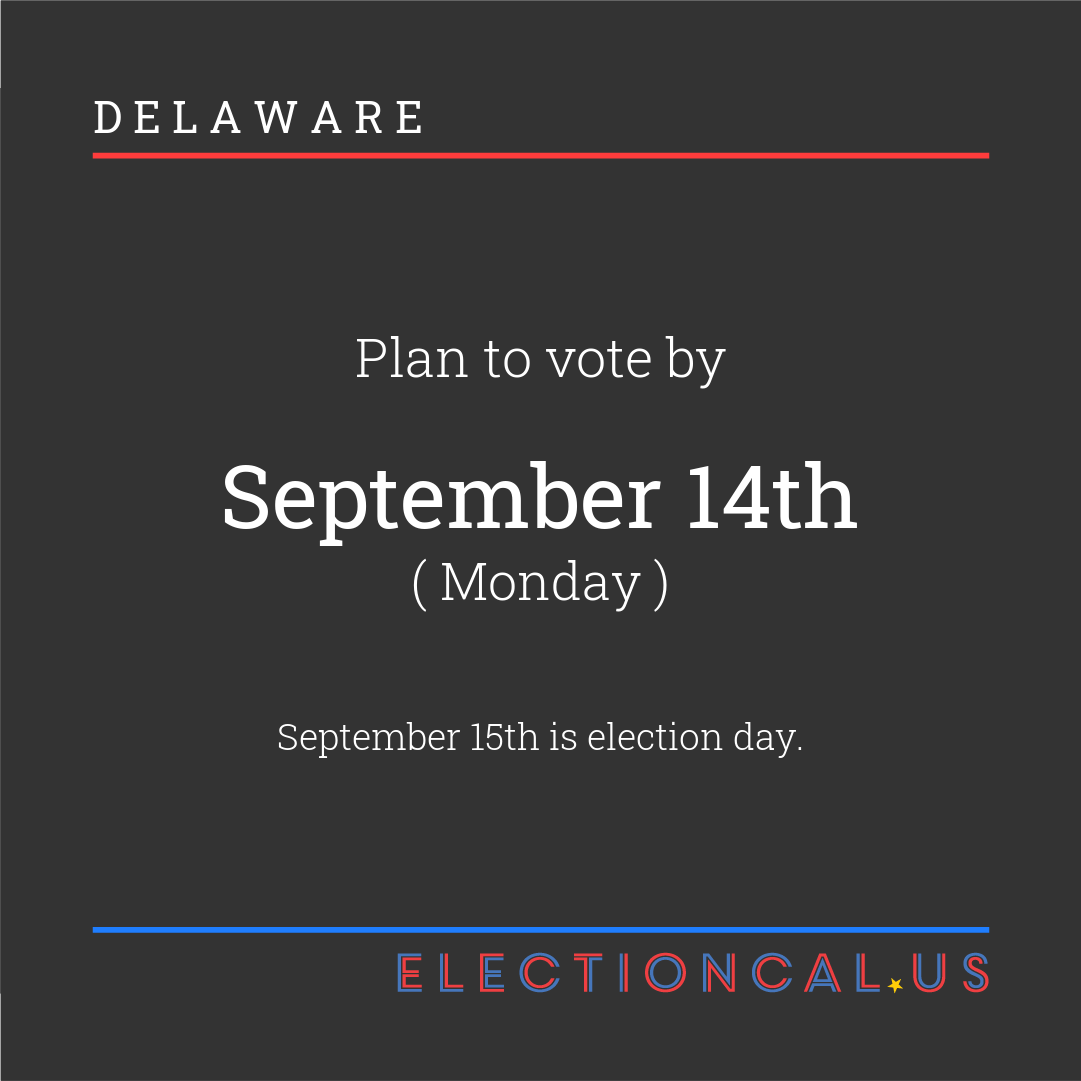
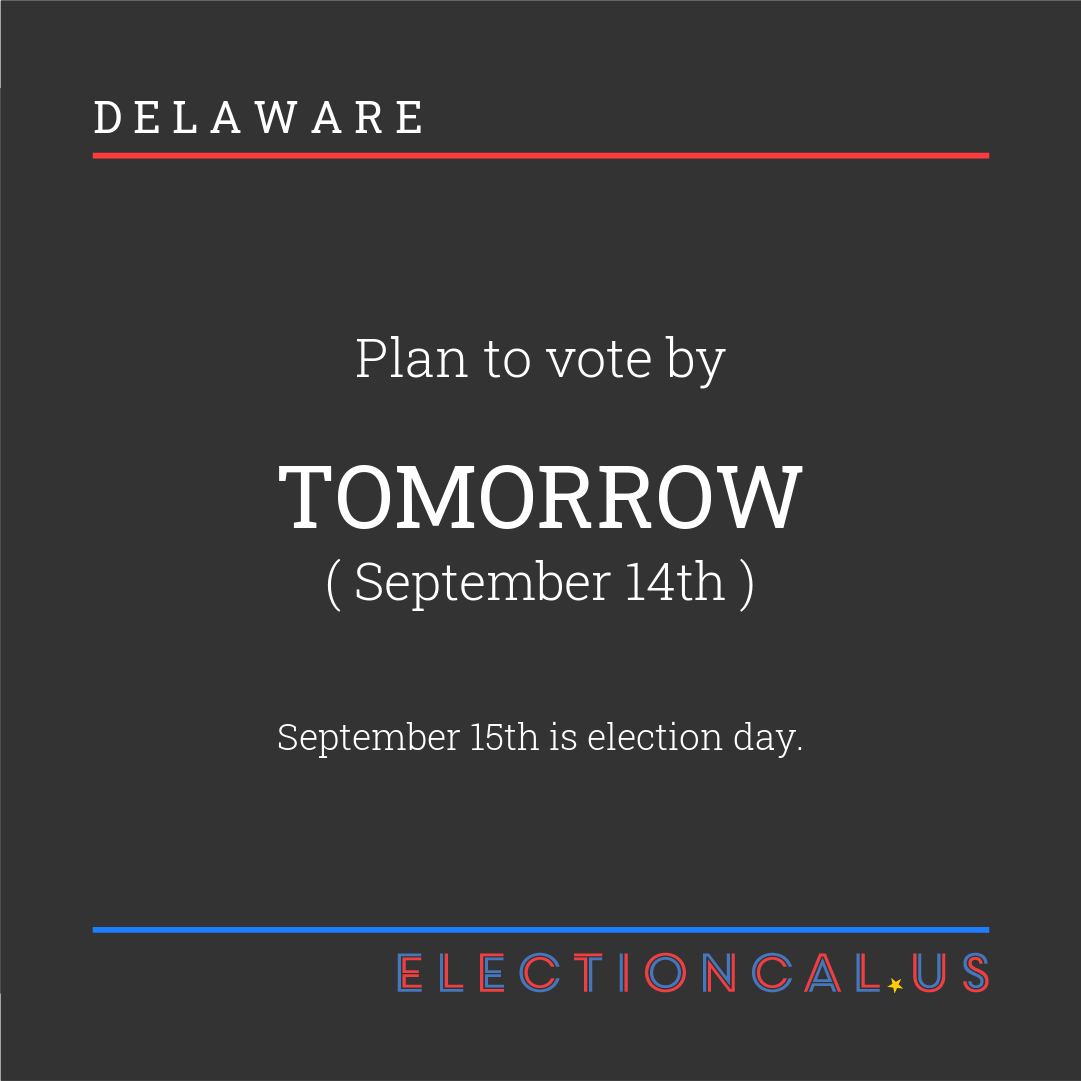
deploy: e3d045e0d992fcbe17e1e23dd607887b0fa743d8

Changed region(s): [[0.2137, 0.4274, 0.7937, 0.58]]

diff --git a/en/delaware/new_castle/index.html b/en/delaware/new_castle/index.html
@@ -14,7 +14,7 @@
     <meta property="og:title" content="New Castle County, Delaware|Plan to vote by" />
     <meta property="og:url" content="https://electioncal.us/en/delaware/new_castle/" />
     <meta property="og:type" content="website" />
-    <meta property="og:description" content="New Castle County, Delaware Plan to vote by September 14th (Monday). September 15th is election day." />
+    <meta property="og:description" content="New Castle County, Delaware Plan to vote by Tomorrow (September 14th). September 15th is election day." />
     <meta property="og:image" content="https://electioncal.us/en/delaware/new_castle/twitter_card.png" />
     
     
@@ -22,9 +22,9 @@
     <meta name="twitter:site" content="@electioncal_us">
     <meta name="twitter:creator" content="@tannewt">
     <meta name="twitter:title" content="New Castle County, Delaware | Plan to vote by">
-    <meta name="twitter:description" content="September 14th (Monday). September 15th is election day.">
+    <meta name="twitter:description" content="Tomorrow (September 14th). September 15th is election day.">
     <meta name="twitter:image" content="https://electioncal.us/en/delaware/new_castle/twitter_card.png?e3d045e0d992fcbe17e1e23dd607887b0fa743d8">
-    <meta name="twitter:image:alt" content="New Castle County, Delaware Plan to vote by September 14th (Monday). September 15th is election day.">
+    <meta name="twitter:image:alt" content="New Castle County, Delaware Plan to vote by Tomorrow (September 14th). September 15th is election day.">
     
 </head>
 <body>
@@ -35,8 +35,8 @@
     <div id="reminder">
         <h3>New Castle County, Delaware</h3>
         <h2>Plan to vote by</h2>
-        <h1>September 14th</h1>
-        <h2>(Monday)</h2>
+        <h1>Tomorrow</h1>
+        <h2>(September 14th)</h2>
         <h3>September 15th is election day.</h3>
     </div>
     

diff --git a/en/delaware/sussex/index.html b/en/delaware/sussex/index.html
@@ -14,7 +14,7 @@
     <meta property="og:title" content="Sussex County, Delaware|Plan to vote by" />
     <meta property="og:url" content="https://electioncal.us/en/delaware/sussex/" />
     <meta property="og:type" content="website" />
-    <meta property="og:description" content="Sussex County, Delaware Plan to vote by September 14th (Monday). September 15th is election day." />
+    <meta property="og:description" content="Sussex County, Delaware Plan to vote by Tomorrow (September 14th). September 15th is election day." />
     <meta property="og:image" content="https://electioncal.us/en/delaware/sussex/twitter_card.png" />
     
     
@@ -22,9 +22,9 @@
     <meta name="twitter:site" content="@electioncal_us">
     <meta name="twitter:creator" content="@tannewt">
     <meta name="twitter:title" content="Sussex County, Delaware | Plan to vote by">
-    <meta name="twitter:description" content="September 14th (Monday). September 15th is election day.">
+    <meta name="twitter:description" content="Tomorrow (September 14th). September 15th is election day.">
     <meta name="twitter:image" content="https://electioncal.us/en/delaware/sussex/twitter_card.png?e3d045e0d992fcbe17e1e23dd607887b0fa743d8">
-    <meta name="twitter:image:alt" content="Sussex County, Delaware Plan to vote by September 14th (Monday). September 15th is election day.">
+    <meta name="twitter:image:alt" content="Sussex County, Delaware Plan to vote by Tomorrow (September 14th). September 15th is election day.">
     
 </head>
 <body>
@@ -35,8 +35,8 @@
     <div id="reminder">
         <h3>Sussex County, Delaware</h3>
         <h2>Plan to vote by</h2>
-        <h1>September 14th</h1>
-        <h2>(Monday)</h2>
+        <h1>Tomorrow</h1>
+        <h2>(September 14th)</h2>
         <h3>September 15th is election day.</h3>
     </div>
     

diff --git a/en/delaware/kent/index.html b/en/delaware/kent/index.html
@@ -14,7 +14,7 @@
     <meta property="og:title" content="Kent County, Delaware|Plan to vote by" />
     <meta property="og:url" content="https://electioncal.us/en/delaware/kent/" />
     <meta property="og:type" content="website" />
-    <meta property="og:description" content="Kent County, Delaware Plan to vote by September 14th (Monday). September 15th is election day." />
+    <meta property="og:description" content="Kent County, Delaware Plan to vote by Tomorrow (September 14th). September 15th is election day." />
     <meta property="og:image" content="https://electioncal.us/en/delaware/kent/twitter_card.png" />
     
     
@@ -22,9 +22,9 @@
     <meta name="twitter:site" content="@electioncal_us">
     <meta name="twitter:creator" content="@tannewt">
     <meta name="twitter:title" content="Kent County, Delaware | Plan to vote by">
-    <meta name="twitter:description" content="September 14th (Monday). September 15th is election day.">
+    <meta name="twitter:description" content="Tomorrow (September 14th). September 15th is election day.">
     <meta name="twitter:image" content="https://electioncal.us/en/delaware/kent/twitter_card.png?e3d045e0d992fcbe17e1e23dd607887b0fa743d8">
-    <meta name="twitter:image:alt" content="Kent County, Delaware Plan to vote by September 14th (Monday). September 15th is election day.">
+    <meta name="twitter:image:alt" content="Kent County, Delaware Plan to vote by Tomorrow (September 14th). September 15th is election day.">
     
 </head>
 <body>
@@ -35,8 +35,8 @@
     <div id="reminder">
         <h3>Kent County, Delaware</h3>
         <h2>Plan to vote by</h2>
-        <h1>September 14th</h1>
-        <h2>(Monday)</h2>
+        <h1>Tomorrow</h1>
+        <h2>(September 14th)</h2>
         <h3>September 15th is election day.</h3>
     </div>
     

diff --git a/en/delaware/index.html b/en/delaware/index.html
@@ -14,7 +14,7 @@
     <meta property="og:title" content="Delaware|Plan to vote by" />
     <meta property="og:url" content="https://electioncal.us/en/delaware/" />
     <meta property="og:type" content="website" />
-    <meta property="og:description" content="Delaware Plan to vote by September 14th (Monday). September 15th is election day." />
+    <meta property="og:description" content="Delaware Plan to vote by Tomorrow (September 14th). September 15th is election day." />
     <meta property="og:image" content="https://electioncal.us/en/delaware/twitter_card.png" />
     
     
@@ -22,9 +22,9 @@
     <meta name="twitter:site" content="@electioncal_us">
     <meta name="twitter:creator" content="@tannewt">
     <meta name="twitter:title" content="Delaware | Plan to vote by">
-    <meta name="twitter:description" content="September 14th (Monday). September 15th is election day.">
+    <meta name="twitter:description" content="Tomorrow (September 14th). September 15th is election day.">
     <meta name="twitter:image" content="https://electioncal.us/en/delaware/twitter_card.png?e3d045e0d992fcbe17e1e23dd607887b0fa743d8">
-    <meta name="twitter:image:alt" content="Delaware Plan to vote by September 14th (Monday). September 15th is election day.">
+    <meta name="twitter:image:alt" content="Delaware Plan to vote by Tomorrow (September 14th). September 15th is election day.">
     
 </head>
 <body>
@@ -35,8 +35,8 @@
     <div id="reminder">
         <h3>Delaware</h3>
         <h2>Plan to vote by</h2>
-        <h1>September 14th</h1>
-        <h2>(Monday)</h2>
+        <h1>Tomorrow</h1>
+        <h2>(September 14th)</h2>
         <h3>September 15th is election day.</h3>
     </div>
     

diff --git a/en/index.html b/en/index.html
@@ -20,7 +20,7 @@
     <meta property="og:title" content="Delaware|Plan to vote by" />
     <meta property="og:url" content="https://electioncal.us/en/" />
     <meta property="og:type" content="website" />
-    <meta property="og:description" content="Delaware Plan to vote by September 14th (Monday). September 15th is election day." />
+    <meta property="og:description" content="Delaware Plan to vote by Tomorrow (September 14th). September 15th is election day." />
     <meta property="og:image" content="https://electioncal.us/en/twitter_card.png" />
     
     
@@ -28,9 +28,9 @@
     <meta name="twitter:site" content="@electioncal_us">
     <meta name="twitter:creator" content="@tannewt">
     <meta name="twitter:title" content="Delaware | Plan to vote by">
-    <meta name="twitter:description" content="September 14th (Monday). September 15th is election day.">
+    <meta name="twitter:description" content="Tomorrow (September 14th). September 15th is election day.">
     <meta name="twitter:image" content="https://electioncal.us/en/twitter_card.png?e3d045e0d992fcbe17e1e23dd607887b0fa743d8">
-    <meta name="twitter:image:alt" content="Delaware Plan to vote by September 14th (Monday). September 15th is election day.">
+    <meta name="twitter:image:alt" content="Delaware Plan to vote by Tomorrow (September 14th). September 15th is election day.">
     
 </head>
 <body>
@@ -41,8 +41,8 @@
     <div id="reminder">
         <h3>Delaware</h3>
         <h2>Plan to vote by</h2>
-        <h1>September 14th</h1>
-        <h2>(Monday)</h2>
+        <h1>Tomorrow</h1>
+        <h2>(September 14th)</h2>
         <h3>September 15th is election day.</h3>
     </div>
     

diff --git a/index.html b/index.html
@@ -20,7 +20,7 @@
     <meta property="og:title" content="Delaware|Plan to vote by" />
     <meta property="og:url" content="https://electioncal.us/en/" />
     <meta property="og:type" content="website" />
-    <meta property="og:description" content="Delaware Plan to vote by September 14th (Monday). September 15th is election day." />
+    <meta property="og:description" content="Delaware Plan to vote by Tomorrow (September 14th). September 15th is election day." />
     <meta property="og:image" content="https://electioncal.us/en/twitter_card.png" />
     
     
@@ -28,9 +28,9 @@
     <meta name="twitter:site" content="@electioncal_us">
     <meta name="twitter:creator" content="@tannewt">
     <meta name="twitter:title" content="Delaware | Plan to vote by">
-    <meta name="twitter:description" content="September 14th (Monday). September 15th is election day.">
+    <meta name="twitter:description" content="Tomorrow (September 14th). September 15th is election day.">
     <meta name="twitter:image" content="https://electioncal.us/en/twitter_card.png?e3d045e0d992fcbe17e1e23dd607887b0fa743d8">
-    <meta name="twitter:image:alt" content="Delaware Plan to vote by September 14th (Monday). September 15th is election day.">
+    <meta name="twitter:image:alt" content="Delaware Plan to vote by Tomorrow (September 14th). September 15th is election day.">
     
 </head>
 <body>
@@ -41,8 +41,8 @@
     <div id="reminder">
         <h3>Delaware</h3>
         <h2>Plan to vote by</h2>
-        <h1>September 14th</h1>
-        <h2>(Monday)</h2>
+        <h1>Tomorrow</h1>
+        <h2>(September 14th)</h2>
         <h3>September 15th is election day.</h3>
     </div>
     

diff --git a/en/delaware/debug_instagram.html b/en/delaware/debug_instagram.html
@@ -14,7 +14,7 @@
     <meta property="og:title" content="Delaware|Plan to vote by" />
     <meta property="og:url" content="https://electioncal.us/en/delaware/" />
     <meta property="og:type" content="website" />
-    <meta property="og:description" content="Delaware Plan to vote by September 14th (Monday). September 15th is election day." />
+    <meta property="og:description" content="Delaware Plan to vote by Tomorrow (September 14th). September 15th is election day." />
     <meta property="og:image" content="https://electioncal.us/en/delaware/twitter_card.png" />
     
     

diff --git a/en/delaware/debug_twitter.html b/en/delaware/debug_twitter.html
@@ -14,7 +14,7 @@
     <meta property="og:title" content="Delaware|Plan to vote by" />
     <meta property="og:url" content="https://electioncal.us/en/delaware/" />
     <meta property="og:type" content="website" />
-    <meta property="og:description" content="Delaware Plan to vote by September 14th (Monday). September 15th is election day." />
+    <meta property="og:description" content="Delaware Plan to vote by Tomorrow (September 14th). September 15th is election day." />
     <meta property="og:image" content="https://electioncal.us/en/delaware/twitter_card.png" />
     
     

diff --git a/en/debug_instagram.html b/en/debug_instagram.html
@@ -14,7 +14,7 @@
     <meta property="og:title" content="Delaware|Plan to vote by" />
     <meta property="og:url" content="https://electioncal.us/en/" />
     <meta property="og:type" content="website" />
-    <meta property="og:description" content="Delaware Plan to vote by September 14th (Monday). September 15th is election day." />
+    <meta property="og:description" content="Delaware Plan to vote by Tomorrow (September 14th). September 15th is election day." />
     <meta property="og:image" content="https://electioncal.us/en/twitter_card.png" />
     
     

diff --git a/en/debug_twitter.html b/en/debug_twitter.html
@@ -14,7 +14,7 @@
     <meta property="og:title" content="Delaware|Plan to vote by" />
     <meta property="og:url" content="https://electioncal.us/en/" />
     <meta property="og:type" content="website" />
-    <meta property="og:description" content="Delaware Plan to vote by September 14th (Monday). September 15th is election day." />
+    <meta property="og:description" content="Delaware Plan to vote by Tomorrow (September 14th). September 15th is election day." />
     <meta property="og:image" content="https://electioncal.us/en/twitter_card.png" />
     
     
